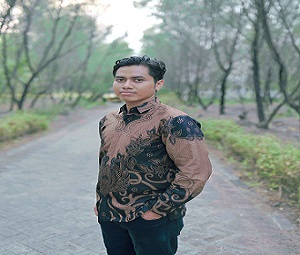
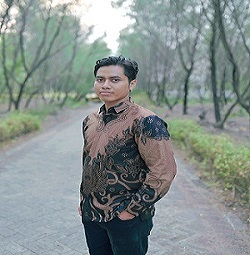
1

diff --git a/index.html b/index.html
@@ -45,6 +45,36 @@
 
 	<!-- Tambahkan di dalam <head> -->
 		<link href="https://unpkg.com/aos@2.3.1/dist/aos.css" rel="stylesheet">
+
+		<style>
+			/* DEFAULT: Desktop */
+			.img-groom {
+				object-fit: cover;
+				width: 100%;
+				object-position: center -30px;
+				border-radius: 15px;
+				box-shadow: 0 4px 10px rgba(0,0,0,0.15);
+			}
+
+			.img-bride {
+				object-fit: cover;
+				width: 100%;
+				object-position: center;
+				border-radius: 15px;
+				box-shadow: 0 4px 10px rgba(0,0,0,0.15);
+			}
+
+			/* MOBILE: geser ke atas */
+			@media (max-width: 768px) {
+				.img-groom {
+					object-position: center -45px;
+				}
+				.img-bride {
+					object-position: center -45px;
+				}
+			}
+		</style>
+
 	</head>
 	<body>
 		<!-- Tambahkan sebelum tag </body> -->
@@ -129,7 +159,7 @@
 					<div class="couple-wrap">
 						<div class="couple-half" data-aos="fade-right">
 							<div class="groom">
-								<img src="images/3_ - Copy.jpg" alt="groom" class="img-responsive" style="border-radius: 15px; box-shadow: 0 4px 10px rgba(0,0,0,0.15);">
+								<img src="images/3_.jpg" alt="groom" class="img-responsive img-groom">
 							</div>
 							<div class="desc-groom">
 								<h3 style="color: #6b4226;">Vidya Ayu Eka Maulidina, S.Kom</h3>
@@ -143,7 +173,7 @@
 
 						<div class="couple-half" data-aos="fade-left">
 							<div class="bride">
-								<img src="images/1_ - Copy.jpg" alt="bride" class="img-responsive" style="border-radius: 15px; box-shadow: 0 4px 10px rgba(0,0,0,0.15);">
+								<img src="images/1_.jpg" alt="groom" class="img-responsive img-bride">
 							</div>
 							<div class="desc-bride">
 								<h3 style="color: #6b4226;">Moch. Abdul Rohman, S.Kom</h3>
